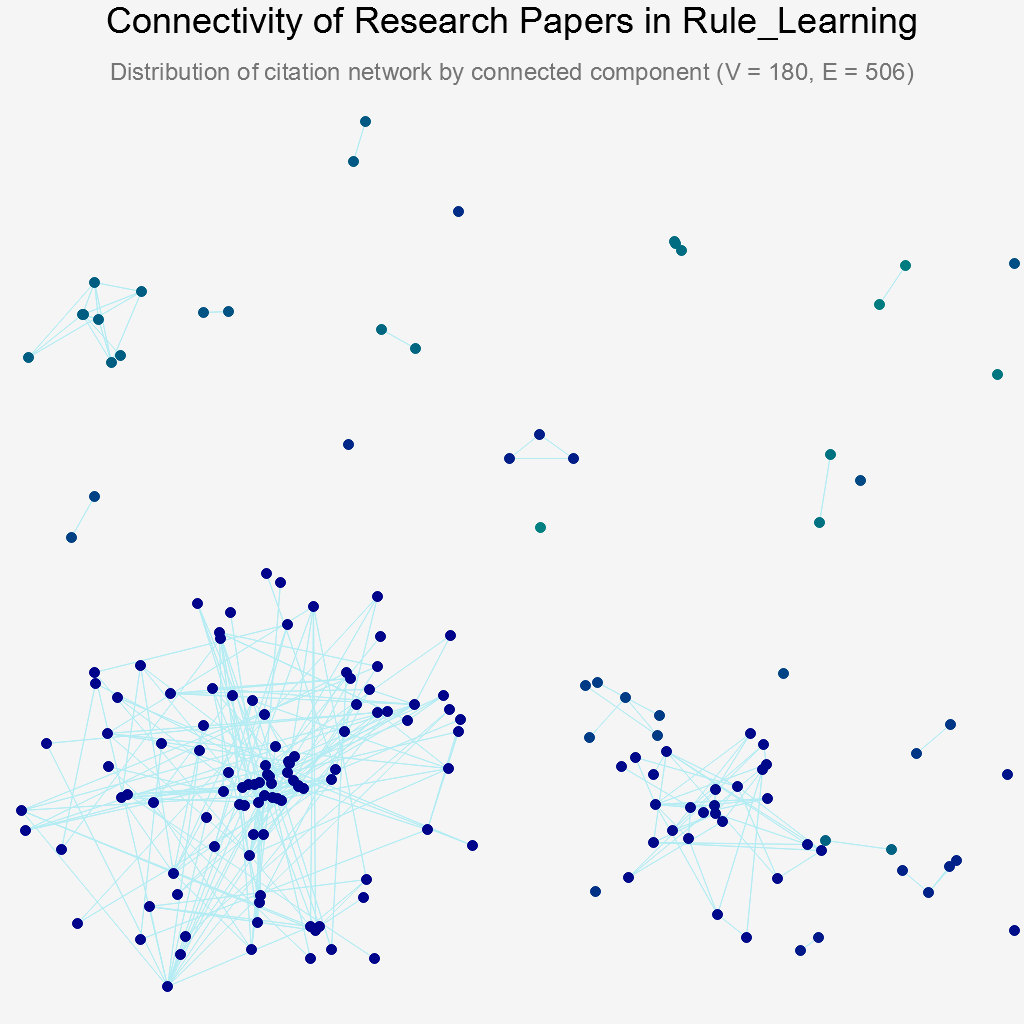
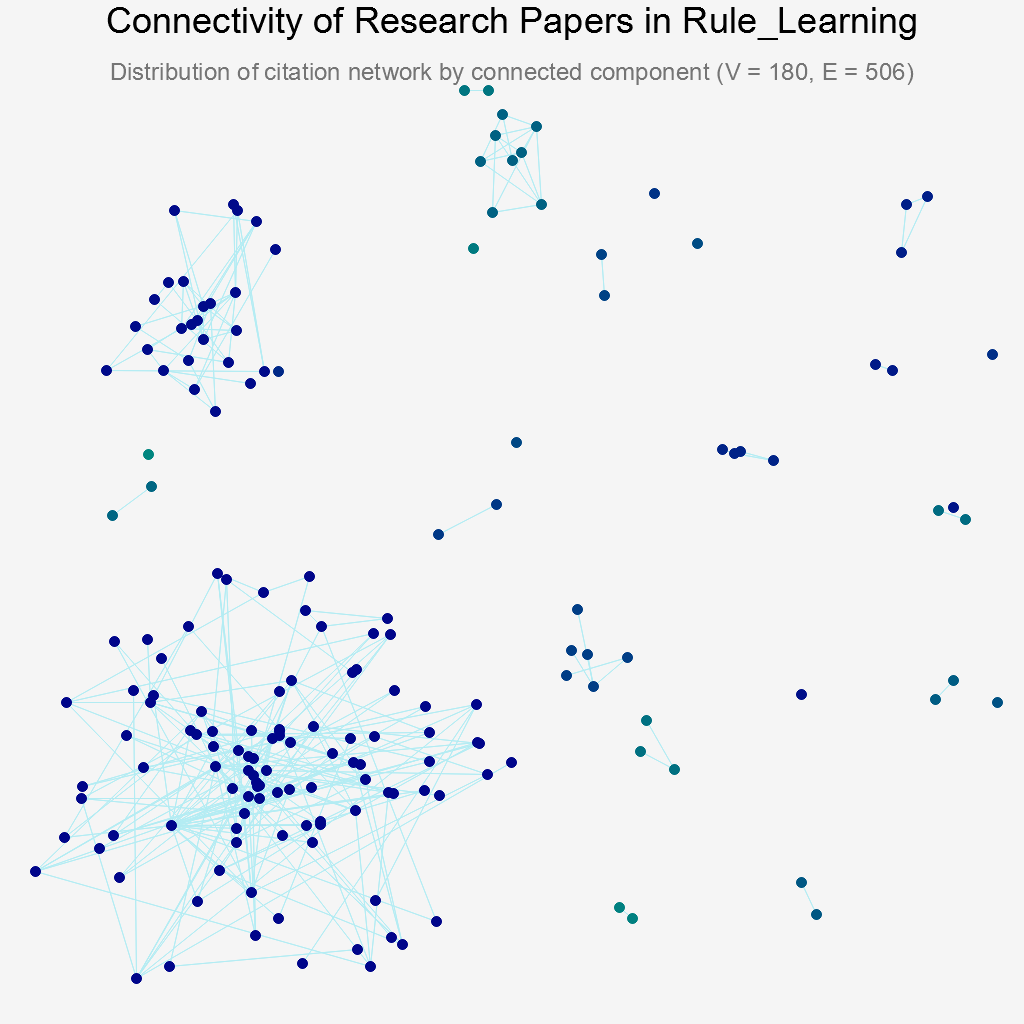
Unit testing and minor bug fixes

diff --git a/src/graph/mod.rs b/src/graph/mod.rs
@@ -156,7 +156,7 @@ impl Graph{
                 component_functions::mark_component_bfs(v, self, &mut component, component_count);
             }
         }
-        return (component, component_count + 1)
+        return (component, component_count)
     }
     //Create a png graph of the connected components of the graph
     pub fn visualize_connectivity(
@@ -191,14 +191,15 @@ impl Graph{
         //Run algorithm
         let (components,num_components) = self.connected_components();
         
-        // Step 1: Assign positions to nodes, clustered by components
+        // Step 1: Assign positions to nodes, clustered by components in circles
         let range_hash = visualization_support::get_graph_dimensions(&components, num_components, drawing_area, biggest_circle,50.0);
         let mut rng = rand::thread_rng();
         let mut positions: HashMap<usize, (i32, i32)> = HashMap::new();
     
         for (i, component) in components.iter().enumerate() {
             if let Some(comp) = component {
-                if let Some((center, radius)) = range_hash.get(comp) {
+                //Switch back from 1 based to 0 based index
+                if let Some((center, radius)) = range_hash.get(&(comp-1)) {
                     let (center_x, center_y) = *center;
     
                     // Generate random position within the circle using polar coordinates
@@ -238,5 +239,79 @@ impl Graph{
         }
     
         Ok(())
+    }
+}
+//Unit tests for module features
+#[cfg(test)]
+mod tests{
+    use crate::*;
+    #[test]
+    fn test_connected_components_single_component() {
+        let graph = Graph::from_csvs(
+            "tests\\test_data\\edges_single_component.csv",
+            "tests\\test_data\\nodes_single_component.csv"
+        ).unwrap();
+        let (_component, num_components) = graph.connected_components();
+        assert_eq!(num_components, 1);  // There should be 1 component
+    }
+
+    #[test]
+    fn test_connected_components_multiple_components(){
+        let graph = Graph::from_csvs(
+            "tests\\test_data\\edges_multi_component.csv",
+            "tests\\test_data\\nodes_multi_component.csv"
+        ).unwrap();
+        let (_component, num_components) = graph.connected_components();
+        assert_eq!(num_components,3); //There should be 3 components in graph
+    }
+
+    #[test]
+    fn test_count_components(){
+        let graph = Graph::from_csvs(
+            "tests\\test_data\\edges_single_component.csv", 
+            "tests\\test_data\\nodes_single_component.csv"
+        ).unwrap();
+        let (component,num_components) = graph.connected_components();
+        let component_sizes = count_components(&component, num_components);
+        assert_eq!(component_sizes.len(), 1);
+        assert_eq!(component_sizes[0],5);
+    }
+
+    #[test]
+    fn test_show_aggregation(){
+        let graph = Graph::from_csvs(
+            "tests\\test_data\\edges_multi_component.csv",
+            "tests\\test_data\\nodes_multi_component.csv"
+        ).unwrap();
+        
+        let (component, num_components) = graph.connected_components();
+        let component_scale = get_component_scale(&component, num_components, true);
+        let result = show_aggregation(&component_scale,
+            "tests\\test_output\\example_aggregation.png");
+        assert!(result.is_ok());
+    }
+
+    #[test]
+    fn test_visualize_connectivity(){
+        let graph = Graph::from_csvs(
+            "tests\\test_data\\edges_multi_component.csv",
+            "tests\\test_data\\nodes_multi_component.csv"
+        ).unwrap();
+        let result = graph.visualize_connectivity(
+            "tests\\test_output\\example_connectivity.png", 
+            1.5, (1024,1024), 
+            "Multi-component test example");
+        assert!(result.is_ok())
+    }
+
+    #[test]
+    fn test_subgraphs(){
+        let graph = Graph::from_csvs(
+            "tests\\test_data\\edges_multi_component.csv",
+            "tests\\test_data\\nodes_multi_component.csv"
+        ).unwrap();
+
+        let subgraphs = graph.calculate_subgraphs();
+        assert_eq!(subgraphs.len(), 2);
     }
 }

diff --git a/src/graph/visualization_support/mod.rs b/src/graph/visualization_support/mod.rs
@@ -44,7 +44,7 @@ pub fn get_graph_dimensions(
     grid_size: f64, // Size of each cell in the grid
 ) -> HashMap<usize, ((f64, f64), f64)> {
     let (x_min, x_max, y_min, y_max) = drawing_bounds;
-    let component_counts = count_components(component, num_components);
+    let component_counts = count_components(component, num_components + 1);
     let total: usize = component_counts.iter().sum();
     let mut rng = rand::thread_rng();
     let mut component_sorted_tuples: Vec<(usize, usize)> = component_counts
@@ -53,7 +53,7 @@ pub fn get_graph_dimensions(
         .map(|(index, value)| (index, *value))
         .collect();
     component_sorted_tuples.sort_by(|a, b| b.1.cmp(&a.1));
-
+    println!("{:?}",component_sorted_tuples);
     let mut current_x = x_min as f64;
     let total_x_space = (x_max - x_min) as f64;
 

diff --git a/src/graph/component_functions/mod.rs b/src/graph/component_functions/mod.rs
@@ -19,7 +19,8 @@ pub fn mark_component_bfs(vertex:Vertex,graph:&Graph,component:&mut Vec<Option<C
 pub fn count_components(component:&Vec<Option<Component>>,num_components:usize) -> Vec<usize>{
     //Get the count of nodes in each component
     let mut component_counts = vec![0;num_components];
-    component.iter().for_each(|x| component_counts[x.unwrap()] += 1);
+    //Component counts from BFS are 1 indexed, but  unwrap() - 1 adjusts to a 0-index
+    component.iter().for_each(|x| component_counts[x.unwrap() -1] += 1);
     return component_counts;
 }
 pub fn get_component_scale(component:&Vec<Option<Component>>, num_components:usize,sort:bool) -> Vec<f64>{

diff --git a/src/main.rs b/src/main.rs
@@ -5,7 +5,6 @@ use graph::component_functions::*;
 use graph::visualization_support::show_aggregation;
 fn main() {
     let graph = Graph::from_csvs("citation_network\\edges.csv","citation_network\\nodes.csv").unwrap();
-    
     let (component,num_components) = graph.connected_components();
     let component_sizes = count_components(&component, num_components);
     let component_scale = get_component_scale(&component, num_components,true);
